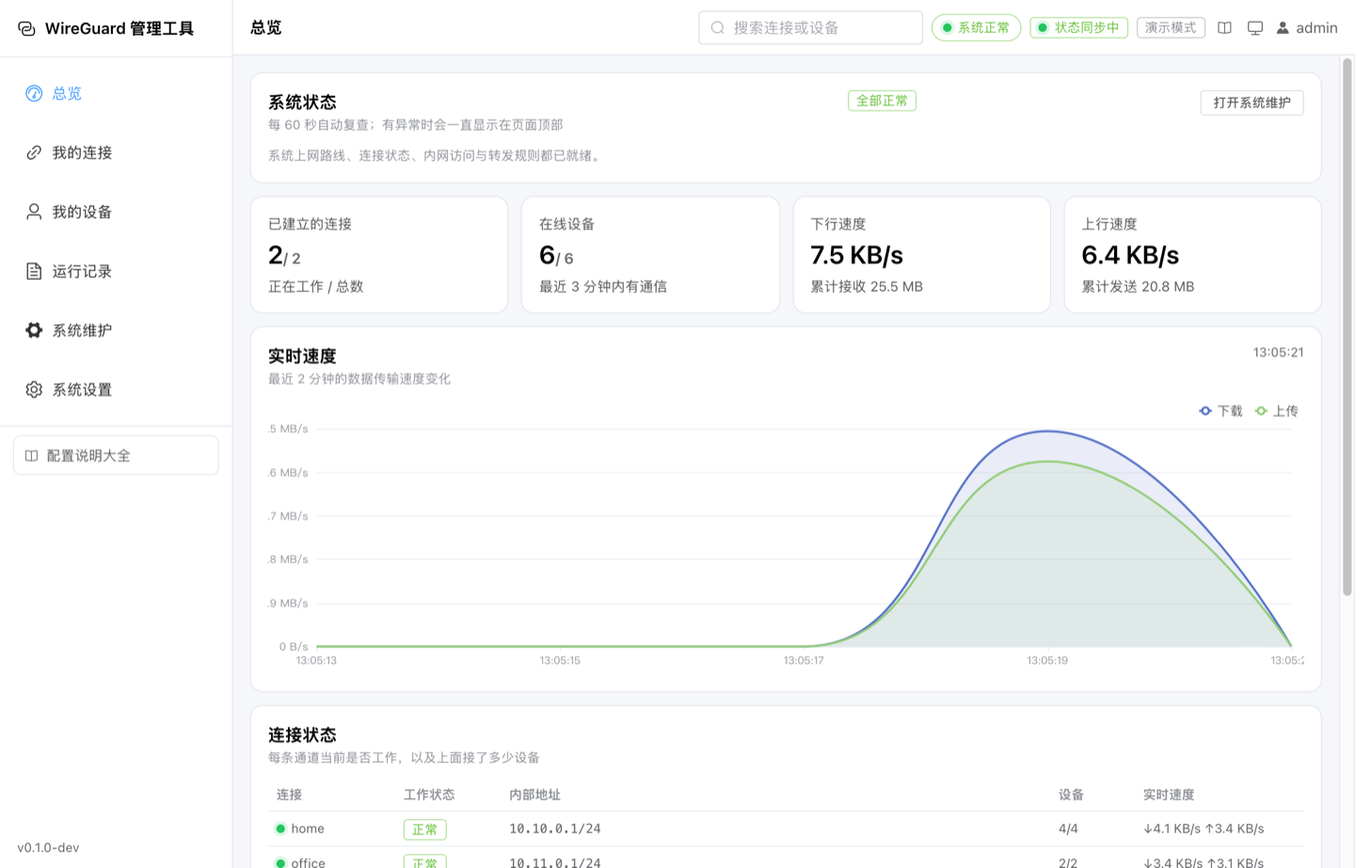
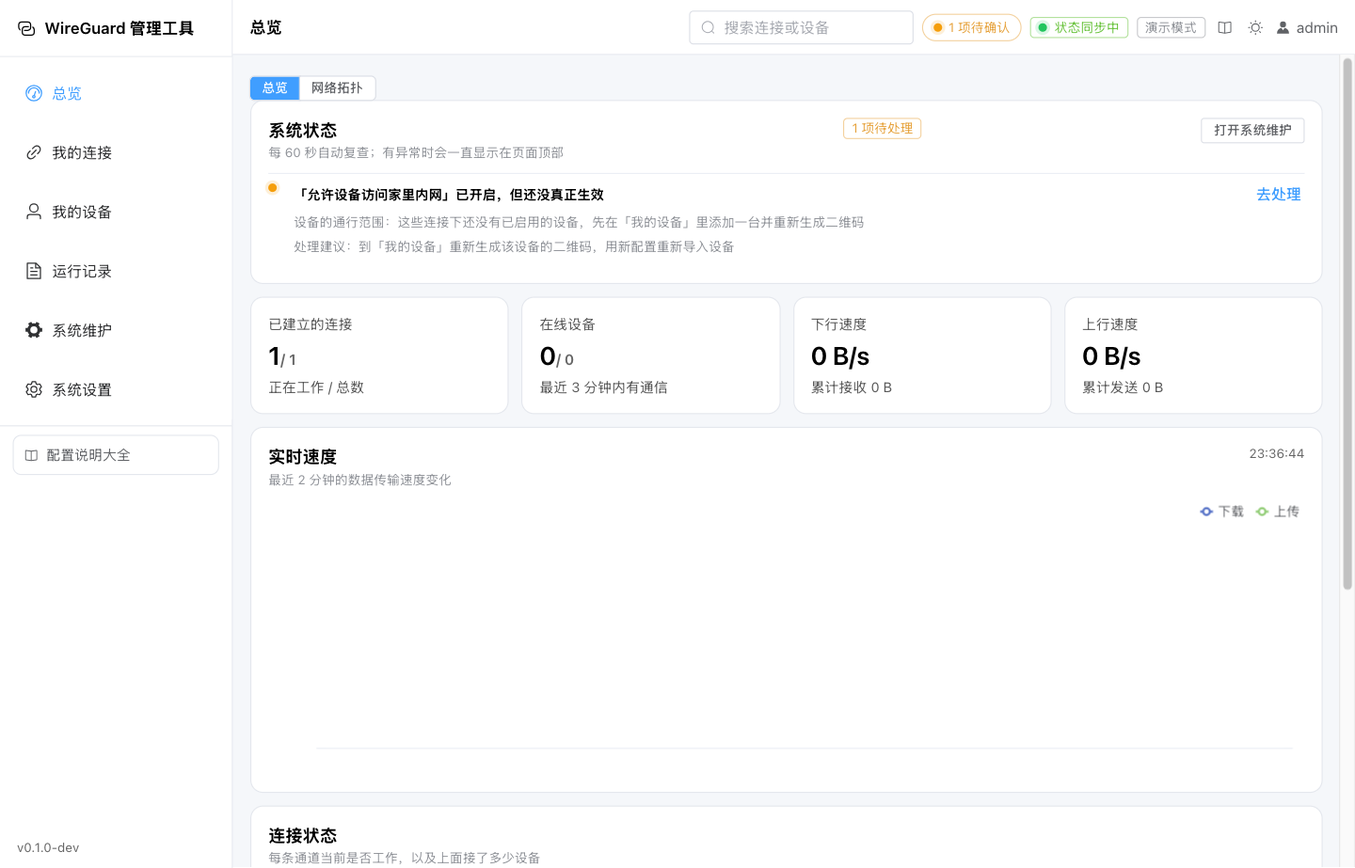
docs: 同步 1.0 的说明、应用介绍与截图，并订正与实现不符的描述
新增功能：
无

修复问题：
1.README 与应用介绍里「从飞牛桌面进入即免密进入」的说法与现在的实现不符：现在由登录页给出「飞牛账号 xxx」按钮，点一下换发本应用会话（自动免密会让「退出登录」等于「下一刻又被带进来」，而且用户不知道自己是以谁的身份进来的）。已按实现改写，并补上真正决定安全性的细节——按飞牛账号 UID 建号且不复用已有账号、角色随每次登录同步、身份头只在连接来自网关 Unix Socket 且对端 uid 可信时才采信、端口通道上的同名头一律删除；
2.README 的「版本规划」停在 0.9.3，dev 上后续十余项改动（网络拓扑图、内网资产台账、一键诊断包、流量报表与每月额度、计划备份、两种列表视图、以飞牛账号登录与敏感操作二次验证、登录页重做）都没有写进去，读者看到的仍是「1.0 只是全量回归」；已整体重写为 1.0 的功能清单；
3.路线图 P3 表格里「网络拓扑图」一行被拆成两段（后半句落到了几条之后），Markdown 表格渲染会错乱；已合并回一行；
4.截图说明文档里「现有六张」与实际情况不符，已更新为十张的清单与拍摄要点。

其它：
1.新增依赖：无；
2.截图更新为十张：新增登录页、网络拓扑、卡片视图、流量报表四张，其余六张按当前界面重拍。全部取自内置演示模式（含「演示模式」标记），不含真实公网地址、域名、公钥与二维码；拍摄方法是视口 1280×820 配 deviceScaleFactor 1.125，直接得到与既有截图一致的 1440×922；
3.内网资产台账的截图未提供：演示模式没有内核邻居表，台账恒为空，空态截图没有价值，故不发；
4.manifest 的 changelog 按发布规则整体重写为三块式（1.0 的正式说明），desc（应用介绍）补充了网络拓扑、流量报表与每月额度、内网资产台账、一键诊断包、以飞牛账号登录与敏感操作二次验证等新增能力；
5.版本号仍是 0.9.68：1.0.0 的 bump、合并 main 与打 tag 等确认后再做。

diff --git a/README.md b/README.md
@@ -59,6 +59,8 @@
 - **内网域名解析**：开启后下发给设备的 DNS 指向本连接，登记的名字由本应用应答（如 `nas.lan`），其余上网域名原样转发到你配置的 DNS。
 - **设备管理效率**：批量导入（粘贴一批公钥或整份配置）、全局搜索（顶栏一个入口搜连接与设备并直达详情）、分步新建向导。
 - **账号安全**：应用自己的账号体系（口令以 argon2id 存储）、登录二次验证（动态口令 + 一次性恢复码 + 可信任设备 30 天）、应急安全码，以及 `fnwg-cli` 命令行后手。
+- **以飞牛账号登录**：从飞牛桌面点开应用后，登录页会给出「飞牛账号 xxx」按钮，点一下即用飞牛身份进入，不必再输一遍账号密码。应用按飞牛账号的 UID 建立对应账号：用户名优先取飞牛用户名、重名自动加后缀，且**绝不复用已有账号**——一个叫 `admin` 的飞牛普通用户撞上本地管理员时，复用等于把管理员权限交出去；角色每次登录同步，飞牛侧撤权立即生效；这类账号没有本应用口令，因此永远不能走密码登录。
+- **敏感操作二次验证（默认关）**：开启后，以飞牛账号登录的身份在执行敏感操作（查看本机密钥、用备份还原、管理账号）前需输入一次动态口令，验证后 10 分钟内有效；用账号密码从端口进入时不受影响——那是用户被自己开的开关挡住时的退路。开启前会先确认当前账号已绑定二次验证，没绑定不允许开启。
 - **可靠与可回溯**：以数据库中的期望态为唯一事实来源，通过 netlink 幂等收敛到内核，改完配置自动下发、系统重启自动恢复；改动前自动留配置快照可一键回滚；支持整机备份导出/导入。
 - **计划备份到共享文件夹**：按日程（每天 / 每周 + 时刻）把完整备份写到你授权的共享文件夹（通常放在另一块存储空间上），只保留最近若干份；目标也可以选「应用自己的备份目录」（与源数据同盘，只适合当本地轮换副本，界面会写明代价）。「立即备份」也可以顺手把这一份另存到授权目录。备份（含「立即执行一次」与「另存一份」）以及副本的下载、还原一律由后台服务以特权身份完成，界面进程不直接读写该目录——同一个目录出现两个身份，正是此前「界面说不可写、备份其实成功」那类矛盾的来源。目标目录不可用时保存会被拒绝，不会留下一个「看着是开的、其实每天失败」的开关。备份与数据库在同一块盘上会一起丢，所以目标目录不能是应用自己的数据目录；而且飞牛的应用只能访问**用户授权给它的**目录，因此目标目录是从「已授权目录」里选的、不能手填——否则只会得到「开关是开的、每天失败一次」。保存时会实际写一个探针文件验证可写，写不进去直接拒绝保存。NAS 关机错过的时间点会在开机后补一次，失败会推送通知，页面显示目标目录可用性、上次成功的时间与目录里现有的副本，并可对任一份「下载」或「用这份还原」。
 - **事件通知**：设备上线/离线、到期、流量用尽、连接中断与恢复、配置下发失败、残留网络自愈共 8 类事件推送到你配置的 Webhook（钉钉、企业微信、飞书群机器人，或自建 ntfy 等），支持 JSON / 纯文本 / Markdown 三种格式与逐事件开关，可当场「发送测试通知」验证，并保留最近一次实际发出的内容用于排障。
@@ -74,13 +76,21 @@
 > 以下为界面预览，实际界面以你安装的版本为准。图片文件与更新方式见
 > [`docs/screenshots/README.md`](docs/screenshots/README.md)。
 
-| 总览：连接与设备状态、实时流量 | 我的连接：地址端口、内网访问与设备隔离 |
+| 登录：账号密码，或一键用飞牛账号进入 | 总览：连接与设备状态、实时流量 |
 |---|---|
-| <img src="docs/screenshots/overview.png" alt="总览页：连接与设备状态、实时流量" width="460"> | <img src="docs/screenshots/interfaces.png" alt="我的连接页：地址端口、内网访问与设备隔离开关" width="460"> |
+| <img src="docs/screenshots/login.png" alt="登录页：左侧品牌与能力说明，右侧账号密码表单，下方可一键用飞牛账号进入" width="460"> | <img src="docs/screenshots/overview.png" alt="总览页：连接与设备状态、实时流量" width="460"> |
 
-| 我的设备：二维码、期限与配额 | 系统维护：一键体检与逐层诊断 |
+| 网络拓扑：本机、内网设备与隧道设备一张图 | 我的连接：地址端口、内网访问与设备隔离 |
 |---|---|
-| <img src="docs/screenshots/peers.png" alt="我的设备页：二维码、期限与配额" width="460"> | <img src="docs/screenshots/maintenance.png" alt="系统维护页：一键体检与逐层诊断" width="460"> |
+| <img src="docs/screenshots/topology.png" alt="网络拓扑图：以本机 NAS 为中心的连通图，含图例与缩略图" width="460"> | <img src="docs/screenshots/interfaces.png" alt="我的连接页：地址端口、内网访问与设备隔离开关" width="460"> |
+
+| 我的设备：二维码、期限与配额 | 设备列表的卡片视图：右上角一键切换并记住 |
+|---|---|
+| <img src="docs/screenshots/peers.png" alt="我的设备页：二维码、期限与配额" width="460"> | <img src="docs/screenshots/cards.png" alt="设备列表的卡片视图，宽屏自动分列" width="460"> |
+
+| 运行记录 · 流量报表：按设备与按天的用量 | 系统维护：一键体检与逐层诊断 |
+|---|---|
+| <img src="docs/screenshots/traffic.png" alt="流量报表页签：按设备与按天的用量、趋势图与导出" width="460"> | <img src="docs/screenshots/maintenance.png" alt="系统维护页：一键体检与逐层诊断" width="460"> |
 
 | 系统设置 · 事件通知：渠道、格式与逐事件开关 | 深色外观：右上角切换浅色 / 深色 / 跟随系统 |
 |---|---|
@@ -102,7 +112,7 @@
 | 4 | 内网访问与设备隔离规则都与系统隔离 | 两套规则同写在应用自己的 nftables 表 `inet fn-wireguard`，只匹配隧道网段（NAS 自身流量的源地址是局域网地址，结构上匹配不到），关闭/卸载整表删除 |
 | 5 | 密钥加密落盘 | 私钥与口令用 AES-256-GCM 加密，主密钥只存本机并限定属组可读；登录口令另经 argon2id 哈希 |
 | 6 | 权限收敛到最小 | 面向用户的 Web 进程以非特权用户 `fnwg` 运行；需要内核权限的操作收敛到独立的特权进程，只申请 `CAP_NET_ADMIN`、`CAP_NET_RAW` 等必要能力，并叠加 `NoNewPrivileges`、`ProtectSystem=full`、`PrivateTmp` |
-| 7 | 两种访问入口权限一致 | 无论从飞牛桌面点开还是用 `IP:端口` 打开，都是同一套路由、同一套账号与权限；本应用不读取也不信任任何外部注入的身份信息 |
+| 7 | 两种访问入口权限一致 | 无论从飞牛桌面点开还是用 `IP:端口` 打开，都是同一套路由与同一套权限判定。从飞牛桌面进入时，飞牛会注入登录用户的身份（官方统一网关机制），登录页据此给出「飞牛账号 xxx」一键登录按钮，按「飞牛管理员 → 管理员、普通用户 → 只读」映射成对应的应用账号；这些身份信息**只在连接确实来自网关进程的 Unix Socket、且对端 uid 在白名单内时**才被采信，端口入口上出现的同名请求头一律先删除，所以在端口上伪造身份不可能成立。另可选开启「敏感操作二次验证」，让飞牛身份在动密钥、备份与账号前再输一次动态口令 |
 | 8 | 卸载不留痕迹 | 停用/卸载时撤销全部自己创建的路由、规则、网卡；用户数据保留还是清空，由你在卸载向导里自己决定 |
 
 > 更详细的实现说明见 [`internal/wgback/`](internal/wgback/)，核心防线都带有穷举式单元测试。
@@ -121,7 +131,7 @@
 2. 飞牛 **应用中心 → 手动上传应用**，选择安装包安装；
 3. 首次打开会让你**创建管理员账号并设置密码**，同时生成一枚应急安全码 —— 它是「密码和验证码都用不了」时的最后入口，请当场保存好（只显示这一次）。
 
-> 从飞牛桌面点图标、或直接用 `IP:端口` 打开，两条入口都一样：进去要用本应用自己的账号登录，权限完全相同。
+> 从飞牛桌面点图标进入时，登录页会给出「飞牛账号 xxx」按钮，点一下即可进入（不必再输账号密码）；直接用 `IP:端口` 打开时用本应用自己的账号登录。两条入口进去之后受同一套权限约束。
 
 ### 三步连回家
 
@@ -134,20 +144,21 @@
 ## 界面与功能
 
 ```
-总览       实时流量、连接与设备状态、系统状态卡、新手引导
+总览       实时流量、连接与设备状态、系统状态卡、新手引导；页签「网络拓扑」为整网连通图
 我的连接   创建/编辑/启停连接、地址端口 MTU DNS、内网访问与设备隔离开关、场景预设、导入导出、全局搜索
 我的设备   设备管理、二维码、上网方式与通行范围、使用期限、本月用量与每月额度、配置过期提示、批量导入
 运行记录   操作审计、系统日志、流量报表（按设备/按天用量、趋势图、导出 CSV）
+系统维护   五个页签（待处理 / 系统网络 / 内网访问 / 巡检报告 / 运行环境）：一键体检、异常清单、网络修复、飞牛桌面入口、内网访问逐层诊断、访问控制配置检查、配置漂移巡检、内网资产台账、残留网卡清理、重新应用
 系统设置   接入设置、事件通知、账号管理、内网域名、备份还原（手动与计划备份合成一个列表，可搜索/筛选/刷新）、配置快照、关于
-系统维护   五个页签（待处理 / 系统网络 / 内网访问 / 巡检报告 / 运行环境）：一键体检、异常清单、网络修复、飞牛桌面入口、内网访问逐层诊断、访问控制配置检查、配置漂移巡检、残留网卡清理、重新应用
-系统设置   接入设置、事件通知、内网域名、账号管理、备份还原、配置快照、关于
+（各列表右上角均可在「表格 / 卡片」两种视图间切换，选择会被记住）
 ```
 
 > 「事件通知」与「内网域名」都是独立页签，与「接入设置」各自保存：改通知渠道不会连带改动对外访问地址这类会影响所有设备的配置。
 
 - **配置快照与一键回滚**：每次改动连接、设备、内网域名或系统设置前会自动留一份配置快照，改坏了可在「系统设置 → 配置快照」里看清「回滚会撤销什么」再一键退回。快照不含账号密码、不做安全回退，回滚前还会为当前状态再留一份，滚错了能再滚回来。
 - **备份还原**：可导出整机配置（可选是否包含密钥），也可在换机、重装、手滑之后整份导回。
-- **只用本应用账号登录**：无论从飞牛桌面点开还是用 `IP:端口` 直接访问，都是用「系统设置 → 账号管理」里那套账号和密码登录，两条路权限完全一致。本应用不读取、也不信任飞牛网关注入的任何身份信息，因此没有「免密进入」这回事；忘记密码可用安全码应急登录，管理员也可用 `fnwg-cli` 重置。
+- **两种进入方式，一套权限**：用 `IP:端口` 访问时，用「系统设置 → 账号管理」里的账号密码登录；从**飞牛桌面**点开时，飞牛会先校验你的飞牛账号并把登录身份注入转发请求（官方统一网关机制），登录页据此给出「飞牛账号 xxx」按钮，点一下即按「飞牛管理员 → 管理员、普通用户 → 只读」映射成对应账号进入。应用按飞牛账号的 UID 建号（用户名优先取飞牛用户名、重名加后缀，不复用已有账号），角色随每次登录同步；这类账号没有本应用口令，不能走密码登录。这些身份信息**只在连接确实来自网关进程的 Unix Socket、且对端 uid 在白名单内时**才被采信，而且端口入口上出现的同名请求头会被直接删掉——所以「在端口上伪造自己是管理员」不可能成立。两条入口进去之后受同一套权限约束；忘记密码可用安全码应急登录，管理员也可用 `fnwg-cli` 重置。真机上若「点开没能按飞牛身份进入」，可用只读的诊断接口 `GET /auth/gateway-probe`（仅管理员）看通道类型、对端 uid 与观察到的身份头，不必去翻日志。
+- **敏感操作二次验证**：在「系统设置 → 账号管理」开启（默认关）。开启后，以飞牛账号登录的身份在看本机密钥、用备份还原、管理账号前需输入一次动态口令，验证后 10 分钟内有效；端口 + 账号密码通道不受影响，它是用户被自己开的开关挡住时的退路。开启前会先要求当前账号已绑定二次验证。
 - **登录二次验证与应急安全码**：可给账号开启动态口令（配一次性恢复码、可信任设备 30 天）；应急安全码用后即废并下发新码，登录页可凭它应急进入并顺手重设密码。
 - **标准模式与兼容模式**：内核自带加密网络模块时走标准模式；系统没有这个模块时自动改用用户态实现（兼容模式），功能相同、速度与资源占用略逊。关于页的「工作模式」显示当前用的是哪一种。
 - **浅色 / 深色 / 跟随系统**：右上角可切换外观，选择记在浏览器本地（换设备、换浏览器各选各的，不影响别人），刷新与重开都保持；首次打开跟随系统，也就跟着 fnOS 桌面的深浅色。
@@ -364,17 +375,21 @@ git push origin v0.9.0
   - 界面支持浅色 / 深色 / 跟随系统；事件通知新增飞书推送（含国际版 `open.larksuite.com`）
   - 许可迁移到 GPL-3.0-only，并随包分发许可全文与第三方清单
 
-**开发中**（`dev` 分支，尚未发版）：
+**1.0 正式版**（`dev` 分支，即将发布）—— 0.9.x 的全部内容收敛为一个正式版：
 
-- **0.9.1** 修缺陷：部分更新（例如只改「允许设备访问家里内网」）不再把 `enabled` / `autostart` 这类没传的开关一并关掉
-- **0.9.3** 计划备份：按日程把完整备份写到用户授权的共享文件夹（在飞牛的「应用设置 → 授权目录」里授权后从列表中选择），保留最近若干份；保存时探测目标目录可写，错过的时间点开机后补跑，失败推送通知，可从副本直接下载或还原
-- **0.9.2** 流量记账、每月额度与流量报表：
-  - 记账：NAS 每分钟把每台设备的累计流量折算成增量、按小时落库；保留期默认 90 天且可调，报表页显示已存条数与最早一条
-  - 报表：运行记录 → 流量报表，按设备/按天查看用量与趋势（近 7 / 30 / 90 天），一键导出 CSV（带 BOM，Excel 双击不乱码）
-  - 每月额度：按自然月计发送量，用满自动停用并推送通知，月初自动恢复；自动停用的原因写进审计与设备列表
-  - 我的设备新增「本月用量」列，配了额度的设备以进度条对照
+- **网络拓扑图**：以本机 NAS 为中心画出所在内网及其设备、连上隧道的设备、经隧道连到的另一台 NAS 及其内网；节点可拖动并记住位置，放射 / 环状 / 自由三种布局，单击高亮链路、双击跳转、右键菜单、全览缩略图与导出 PNG，连线按实时速率流动
+- **按设备限制内网目标**：可限定单台设备能访问家里的哪些目标（细到 `192.168.1.10:445`），限制落在服务端转发规则上，设备改不了
+- **内网资产台账**：跟着每次巡检记录内网设备（地址 / MAC / 名称 / 类型 / 首次与最近出现 / 累计天数），新设备入网即写审计并推送通知
+- **配置漂移巡检**：按日程把实际状态与配置对一遍写成报告，逐项给结论与处置办法，只读不修改
+- **一键诊断包**：体检 / 巡检 / 拓扑原始数据 / 资产台账 / 连接与设备 / 运行记录 / 审计打成 tar 下载（浏览器端打包、不上传）
+- **流量报表与每月额度**：每分钟记账（按小时落库），按设备 / 按天查看用量与趋势（近 7 / 30 / 90 天）、导出 CSV；每月发送额度用满自动停用并通知、月初自动恢复
+- **计划备份到授权共享文件夹**：按日程写入、保留份数、目录可写性探测、错过补跑、失败通知，可从副本下载或还原
+- **两种列表视图**：所有列表可在右上角切换表格 / 卡片（宽屏卡片自适应分列），选择被记住
+- **以飞牛账号登录**：从飞牛桌面点开可用飞牛账号一键进入（按 UID 建号、角色随登录同步、不复用已有账号）；另加**默认关**的「敏感操作二次验证」，让飞牛身份在动密钥、备份与账号前再输一次动态口令
+- **登录页重新设计**：桌面双栏（品牌栏 + 表单）、窄屏单栏，明暗主题各自适配
+- 缺陷修复：未配置对外地址时「需重新扫码」误报、拓扑卡片被画布裁掉与缩略图遮挡、二次验证二维码首次空白、应急安全码状态误报「未设置」、说明文案里的 Markdown 星号、操作列「更多」下拉偏高
 
-**规划中** —— **1.0.0 正式版**：全量回归与升级路径验证（0.9.x → 1.0 的安装、升级与回滚）。
+**规划中**：1.0 之后的版本见 [docs/ROADMAP.md](docs/ROADMAP.md)。
 
 ## 参与贡献
 

diff --git a/docs/ROADMAP.md b/docs/ROADMAP.md
@@ -266,7 +266,7 @@
   `TestRevokeTrustedDevice`、`TestAdminResetUserTOTP`、`TestAdminResetPasswordKicksSessions`、
   `TestChangePasswordKicksOtherSessions`。
 
-#### P2-4 接入飞牛统一网关（NAS 账号免密登录，0.8.20 已移除该能力）
+#### P2-4 接入飞牛统一网关（NAS 账号登录；0.8.20 移除、1.0 重新实现）
 - **目标**：登录页同时提供「飞牛 NAS 账号」与「自建账号密码」两种方式，前者免密。
 - **官方机制**（`developer.fnnas.com` 核心概念 → 统一网关）：在 `app/ui/config` 用
   `gatewayPrefix` + `gatewaySocket` 注册入口，**请求先由 fnOS 校验用户会话**，再转发到应用
@@ -381,6 +381,16 @@
      「系统维护 → 一键体检」新增该项，给出路径、状态与处置办法，不可用时按异常报出并可一键跳转。
      至此这类故障既不会静默，也不必再等人去修。
 
+**1.0 重新实现**：当年移除的理由是「复杂度远超收益」，复盘后看清了**复杂度的大头在哪** —— 不在「信任网关注入的身份」，而在**「允许关闭端口登录」**这一选项（登录方式开关、防自锁校验、两套登录路径各自的说明与自检）。这次改成：
+
+- **端口登录永远保留、不提供关闭选项** → 上面那些复杂度整体消失，功能退化成「两种进入方式，一套权限」；
+- **身份按 UID 建号**（`sys_user.trim_uid` + 部分唯一索引）：账号名优先用飞牛用户名、重名自动加后缀（**绝不复用已有账号** —— 一个叫 `admin` 的飞牛普通用户撞上本地管理员时，复用等于把管理员权限交出去）；角色每次登录同步（飞牛侧撤权 → 立刻降权）；口令散列是格式非法的占位值，因此这类账号**永远不可能用密码登录**；
+- **改为显式按钮**（`POST /auth/gateway-login` 换发普通会话），而不是按请求头自动放行：身份头每个请求都会带上，自动免密会让「退出登录」变成「下一刻又被带进来」（真机踩到过），而且用户不知道自己是以谁的身份进来的；换发会话后，审计 / 来源 IP / 设备记录与账号密码登录完全同构；
+- 附带一个**默认关**的开关「敏感操作二次验证」（`gateway_step_up`）：开启后飞牛身份在做敏感操作（查看本机密钥 / 用备份还原 / 账号管理）前要输一次本应用动态口令，10 分钟内有效；**端口通道不受影响** —— 它是用户被自己开的开关挡住时的退路。没绑定动态口令的飞牛账号，第一次做这些操作时会被引导去绑定；
+- **安全前提**：这些身份头只在连接确实来自网关进程的 Unix Socket 且对端 uid 在白名单内时才采信（`gatewayTrusted`），端口通道上的同名头由中间件**一律删除** —— 官方文档只写了「不要信任客户端传入的用户 ID」，**从未承诺会剥离客户端伪造的同名头**。
+
+**验收**：`GET /auth/gateway-probe`（仅管理员）只读诊断，回报通道 / 对端 uid / 是否可信 / 观察到哪些身份头，且**只在通道可信时回显取值**（端口通道上只报名字与「已删除」）；用例覆盖「端口通道伪造 `X-Trim-Isadmin: true` 必须失败」「角色跟随与撤权立即生效」「飞牛账号不能用密码登录」「步进验证的许可会过期（拨表验）」「删除账号的判据是『删掉它之后还剩几个启用的管理员』」；真机验证见 V9b。
+
 #### P2-5 防自锁后手（安全码 + CLI + 登录方式开关，已完成）
 - **背景**：P2-4 选定「关闭独立端口登录」后，必须有退路，否则飞牛网关侧一旦异常就再也进不去。
 - **三层后手**（经确认）：
@@ -425,13 +435,14 @@
 
 | 功能 | 目标 | 依赖 | 状态 |
 |---|---|---|---|
-| 历史流量与报表 | 按设备/按天查询流量，配额可视化 | 需新增采样落盘（现在只有实时） | **已完成（0.9.2，待发版）**：按小时记账 + 报表页 + 每月额度 + CSV 导出 |
-| 网络拓扑图 | 一屏看清本机内网、隧道设备与对端 NAS 的连通关系 | 复用既有事实来源 | **已完成**：新增只读事实「内网设备」（内核邻居表，代理侧读、不许扫描）+ `GET /topology` 组装（服务层纯函数）与两页的便携拓扑图（卡片节点、三种布局、节点拖动并记住位置、点击高亮链路、双击跳转、右键菜单、
+| 历史流量与报表 | 按设备/按天查询流量，配额可视化 | 需新增采样落盘（现在只有实时） | **已完成（1.0）**：按小时记账 + 报表页 + 每月额度 + CSV 导出 |
+| 网络拓扑图 | 一屏看清本机内网、隧道设备与对端 NAS 的连通关系 | 复用既有事实来源 | **已完成**：新增只读事实「内网设备」（内核邻居表，代理侧读、不许扫描）+ `GET /topology` 组装（服务层纯函数）与两页的便携拓扑图（卡片节点、三种布局、节点拖动并记住位置、点击高亮链路、双击跳转、右键菜单、导出 PNG、缩略图定位、按速率箭头流动、窄屏适配）；细节见 V15 |
 | 内网资产台账 + 新设备提醒 | 把「当下看到什么」沉淀成「家里长期有哪些设备」，陌生设备入网即提醒 | 复用邻居表 / 巡检计划 / Webhook | **已完成**：台账（IP / MAC / 名称 / 类型 / 首次与最近出现 / 累计天数）跟随巡检采集；新设备写日志与审计，并接入通知投递（事件 `new_device` 注册进 `notify.Kinds()`，**设置页的开关自动出现**、可用关闭集关掉）；界面在「系统维护 → 内网资产」，可筛「新设备 / 久未出现」、可标为已知。用例覆盖首次入账、复见不再算新、陌生设备必被认出、合并保留已知标记。 |
 | 一键诊断包 | 出问题时一个文件把现场带过去 | 复用既有接口 | **已完成**：体检 / 巡检 / 拓扑 / 资产 / 连接与设备 / 运行记录 / 审计打包成 tar（浏览器端打包，后端不加接口、不引依赖）；任一项取不到只写进 README、不中断；包内不含密钥，README 有隐私提醒。 |
-  导出 PNG、缩略图定位、按速率箭头流动、窄屏适配）；细节见 V15 |
 | 多 NAS 互联模板 | 内置两处网络互联向导 | P0-2、P1-1 | **已完成**：一端生成「互联邀请」、另一端导入即配对（连接、对端条目、内网访问与路由方式一并建好），并给出一份 wg-quick 配置供对端不装本应用时使用；数据面补上「对端站点网段」的转发放行与源地址改写（细节与验收见 V13） |
-| 计划备份到外部存储 | 备份写到共享目录/远端 | 现有备份机制 | **已完成（0.9.3，待发版）**：按日程写用户授权的共享文件夹（用户授权目录里选，不是手填路径）+ 保留份数 + 失败通知 |
+| 计划备份到外部存储 | 备份写到共享目录/远端 | 现有备份机制 | **已完成（1.0）**：按日程写用户授权的共享文件夹（用户授权目录里选，不是手填路径）+ 保留份数 + 失败通知 |
+| 列表的表格 / 卡片两种视图 | 同一份数据，横着比字段或一条条看，随屏幕与偏好自行选择 | 复用既有 ItemCard 分支 | **已完成**：`useViewMode` 把各页原本「按屏宽自动切」升级为「用户可选 + 记住偏好」（存在 `fnwg.view.<列表>`，读不到时仍按屏宽给默认，行为与改造前一致），卡片分支直接复用既有 `ItemCard`，两种视图渲染同一份数据；内网资产台账原本没有卡片分支，按表格列补齐。控件自带右对齐，进工具栏或卡片头都落在右上角 |
+| 以飞牛账号登录与登录页重做 | 从飞牛桌面点开即用飞牛身份进入；登录页要现代、易读、两端适配 | P2-4 | **已完成（1.0）**：见 P2-4 的「1.0 重新实现」；另加默认关的「敏感操作二次验证」（`gateway_step_up`，飞牛身份动密钥 / 备份 / 账号前输一次动态口令，10 分钟有效，端口通道不受影响）；登录页改为桌面双栏 + 窄屏单栏，明暗主题各自适配 |
 | 配置漂移巡检报告 | 定期体检并输出报告 | `useSystemHealth` + P0-3 | **已完成**：13 项检查写成报告、按日程在代理进程执行、报告保留最近若干份、错误级结论推送通知；界面异常清单改读服务端同一份判定（细节与验收见 V12） |
 
 ---
@@ -605,7 +616,7 @@ P2-3 快照回滚    （独立，但 P3 报表可复用其快照数据）
   → `TestSnapshotPruneKeepsLimit`、`TestSnapshotSkipsUnchangedConfig`、`TestSnapshotsStayOutOfBackupList`、
     `TestRollbackRejectsNonSnapshot`、`TestBackupCoversDNSRecords`。
 
-### V9b 统一网关（P2-4，免密部分已于 0.8.20 移除）
+### V9b 统一网关（P2-4；1.0 重新实现为「以飞牛账号登录」）
 - ~~从飞牛桌面打开本应用即免密进入；飞牛管理员 → 应用管理员，普通用户 → 只读。~~
   （0.8.20 移除：从飞牛桌面打开同样要用本应用账号密码，两条通道权限完全一致。）
   → `TestAuthSetupCreatesAccountAndSession`、`TestGatewayLoginEndpointGone`、`TestAuthStateNoLongerExposesLoginMode`。

diff --git a/docs/screenshots/README.md b/docs/screenshots/README.md
@@ -6,7 +6,7 @@
 主 [README](../../README.md) 的「界面预览」一节引用这里的图片。**文件名必须与下表一致** ——
 README 里写的就是这些名字，改名字要同时改 README。
 
-现有六张都取自 `dev` 分支的**内置演示模式**（`./scripts/dev.sh`，内存后端）：
+现有十张都取自 `dev` 分支的**内置演示模式**（`./scripts/dev.sh`，内存后端）：
 数据是示例数据，界面顶栏带着「演示模式」标记，这是刻意的 —— 不拿真实环境的截图冒充，
 同时避免把真实公网地址、域名、设备名与二维码带进公开仓库。
 
@@ -14,12 +14,20 @@ README 里写的就是这些名字，改名字要同时改 README。
 
 | 文件名 | 内容 | 生成时用的页面 |
 |---|---|---|
+| `login.png` | 登录页：左侧品牌与能力说明、右侧表单，下方可一键用飞牛账号进入 | `/#/login` |
 | `overview.png` | 总览：系统状态、连接与设备计数、实时速度曲线、连接状态 | `/#/dashboard` |
+| `topology.png` | 网络拓扑：本机 NAS 为中心，含内网设备、隧道设备、图例与全览缩略图 | `/#/dashboard`（切到「网络拓扑」页签） |
 | `interfaces.png` | 我的连接：地址/端口/设备数/累计流量、内网访问开关 | `/#/interfaces` |
 | `peers.png` | 我的设备：在线状态、所属连接、允许访问、最近通信 | `/#/peers` |
+| `cards.png` | 列表的卡片视图（宽屏自动分列） | `/#/peers`（右上角切「卡片」） |
+| `traffic.png` | 流量报表：按设备与按天的用量、趋势与导出 | `/#/logs`（切到「流量报表」页签） |
 | `maintenance.png` | 系统维护：体检结论、待处理事项、NAS 系统网络、飞牛桌面入口、内网访问诊断 | `/#/maintenance` |
 | `settings-notify.png` | 系统设置 → 事件通知：渠道、格式、8 类事件开关、测试通知 | `/#/settings`（切到「事件通知」页签） |
 | `dark.png` | 深色外观下的总览（右上角可切浅色 / 深色 / 跟随系统） | `/#/dashboard`（先切深色） |
+
+补充两条拍摄时踩到的坑：**总览页的页签是 `el-radio-button`（`.fnwg-page-tabs`），不是 `el-tabs`**，
+用 `el-tabs__item` 找「网络拓扑」永远点不中；另外**主题选择会持久化在 `localStorage` 的 `fnwg-theme`**，
+只改 `html.dark` 类不清这个键，重载后应用会按存储把深色加回来 —— 想拍浅色版必须连存储一起设。
 
 ## 重新生成
 
@@ -42,7 +50,8 @@ README 里写的就是这些名字，改名字要同时改 README。
 ## 拍摄约定
 
 - **尺寸**：桌面端视口取 1280×820；表格列较多、容易被固定操作列压住的页面用 1440 宽。
-  导出后统一缩到 **1440px 宽**存放 —— 六张图同宽同比例，README 里并排两列才齐。
+  导出后统一缩到 **1440px 宽**存放 —— 十张图同宽同比例，README 里并排两列才齐。
+  （当前这批的做法：视口 1280×820 配 `deviceScaleFactor: 1.125`，截图直接就是 1440×922，不必再缩放。）
 - **格式**：PNG，单张控制在 300KB 以内（可用 `sips --resampleWidth 1440` 缩放，纯色区块多，通常压得很小）。
 - **深浅一致**：同一批截图要么全浅色、要么全深色，只有 `dark.png` 例外。
 - **不含真实数据**：**不要出现真实的公网 IP、DDNS 域名、WireGuard 公钥与二维码** ——
